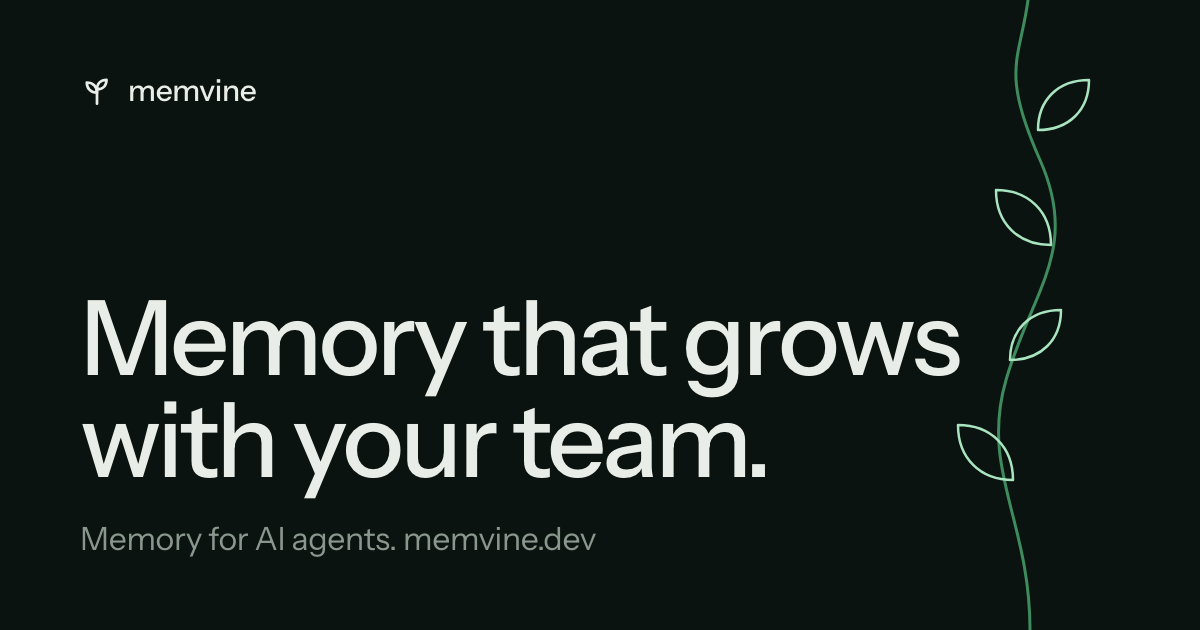
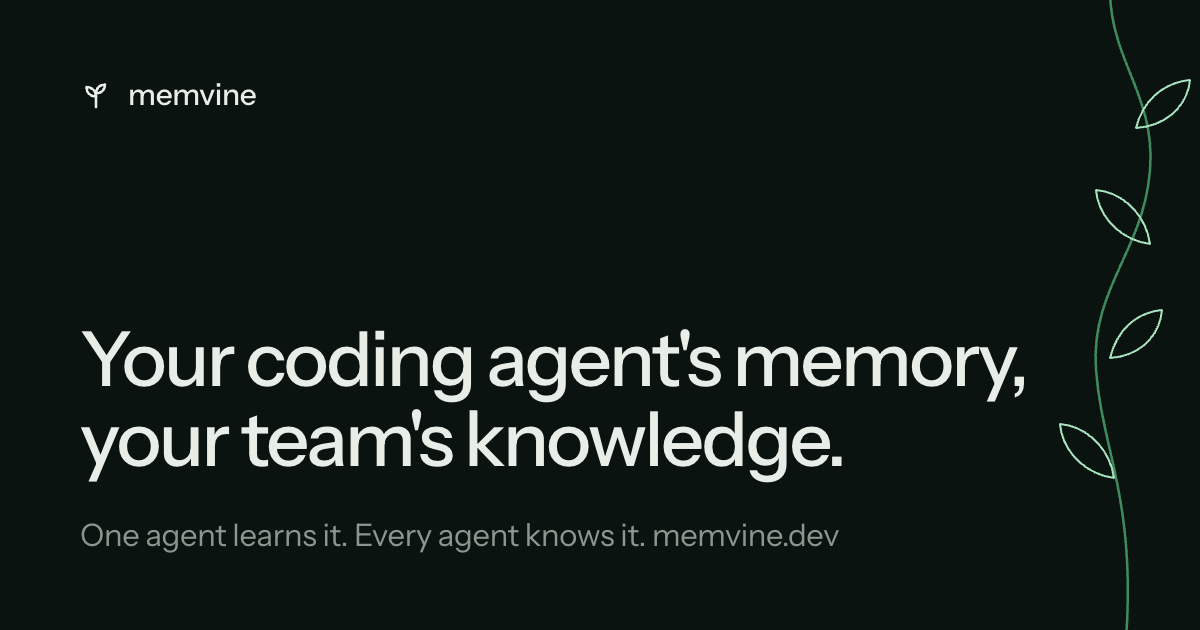
Site: the headline, title and link preview carry the new tagline
Your coding agent's memory, your team's knowledge. og.png is redrawn from site/og.html (not served).

diff --git a/site/index.html b/site/index.html
@@ -3,18 +3,18 @@
 <head>
   <meta charset="utf-8">
   <meta name="viewport" content="width=device-width, initial-scale=1">
-  <title>Memvine: open-source memory for AI agents (Claude Code, Codex, MCP)</title>
-  <meta name="description" content="Memvine is shared memory for a team's coding agents. Teach one agent a rule once, and every teammate's agent knows it the next day.">
+  <title>Memvine: your coding agent's memory, your team's knowledge</title>
+  <meta name="description" content="Your coding agent's memory, your team's knowledge. Open-source shared memory for Claude Code, Codex and any MCP client: one agent learns it, every agent knows it.">
   <link rel="canonical" href="https://www.memvine.dev/">
   <meta property="og:site_name" content="Memvine">
-  <meta property="og:title" content="Memvine: memory for AI agents">
-  <meta property="og:description" content="Shared memory for a team's coding agents. Teach one agent once, and every agent on your team remembers.">
+  <meta property="og:title" content="Memvine: your coding agent's memory, your team's knowledge">
+  <meta property="og:description" content="One agent learns it. Every agent knows it. Open-source shared memory for a team's coding agents.">
   <meta property="og:url" content="https://www.memvine.dev/">
   <meta property="og:type" content="website">
   <meta property="og:image" content="https://www.memvine.dev/og.png">
   <meta property="og:image:width" content="1200">
   <meta property="og:image:height" content="630">
-  <meta property="og:image:alt" content="Memvine. Memory that grows with your team.">
+  <meta property="og:image:alt" content="Memvine. Your coding agent's memory, your team's knowledge.">
   <meta name="twitter:card" content="summary_large_image">
   <script type="application/ld+json">
   {
@@ -52,7 +52,7 @@
   <link rel="preconnect" href="https://fonts.googleapis.com">
   <link rel="preconnect" href="https://fonts.gstatic.com" crossorigin>
   <link href="https://fonts.googleapis.com/css2?family=Instrument+Sans:wght@400;500;600&display=swap" rel="stylesheet">
-  <link rel="stylesheet" href="styles.css?v=7">
+  <link rel="stylesheet" href="styles.css?v=8">
 </head>
 <body>
   <canvas id="vine" aria-hidden="true"></canvas>
@@ -76,10 +76,10 @@
   <main>
     <section class="hero">
       <h1>
-        <span class="line"><span>Memory that grows</span></span>
-        <span class="line"><span>with your team.</span></span>
+        <span class="line"><span>Your coding agent's memory,</span></span>
+        <span class="line"><span>your team's knowledge.</span></span>
       </h1>
-      <p class="lede">Open-source, shared memory for your team's coding agents, across Claude Code, Codex and any MCP client.</p>
+      <p class="lede">One agent learns it. Every agent knows it. Open source, for Claude Code, Codex and any MCP client.</p>
       <div class="actions">
         <a class="button primary" href="#connect">Connect an agent</a>
         <a class="button" href="https://app.memvine.dev">Open the console</a>

diff --git a/site/og.html b/site/og.html
@@ -1,0 +1,42 @@
+<!doctype html>
+<!-- The source of og.png, the picture a link to memvine.dev shows. Not served. To remake it:
+     "/Applications/Google Chrome.app/Contents/MacOS/Google Chrome" --headless=new --hide-scrollbars \
+       --window-size=1200,630 --virtual-time-budget=4000 --screenshot=og.png og.html -->
+<html lang="en">
+<head>
+  <meta charset="utf-8">
+  <title>Memvine link preview</title>
+  <link rel="preconnect" href="https://fonts.googleapis.com">
+  <link rel="preconnect" href="https://fonts.gstatic.com" crossorigin>
+  <link href="https://fonts.googleapis.com/css2?family=Instrument+Sans:wght@400;500;600&display=swap" rel="stylesheet">
+  <style>
+    html, body { margin: 0; width: 1200px; height: 630px; overflow: hidden; background: #0b1310; }
+    body { position: relative; font-family: "Instrument Sans", system-ui, sans-serif; color: #e8ede7; -webkit-font-smoothing: antialiased; }
+    .wordmark { position: absolute; left: 80px; top: 76px; display: flex; align-items: center; gap: 16px; font-size: 30px; font-weight: 500; letter-spacing: -0.01em; }
+    h1 { position: absolute; left: 80px; bottom: 150px; margin: 0; font-size: 76px; font-weight: 500; line-height: 1.06; letter-spacing: -0.035em; white-space: nowrap; }
+    p { position: absolute; left: 80px; bottom: 76px; margin: 0; font-size: 31px; letter-spacing: -0.01em; color: #8a978e; }
+    .vine { position: absolute; right: 0; top: 0; }
+  </style>
+</head>
+<body>
+  <div class="wordmark">
+    <svg viewBox="0 0 20 20" width="32" height="32" aria-hidden="true" fill="none" stroke="currentColor" stroke-width="1.6" stroke-linecap="round" stroke-linejoin="round">
+      <path d="M10 17.5V9"/>
+      <path d="M10 11C10 7.4 7.6 5 4 5c0 3.6 2.4 6 6 6Z"/>
+      <path d="M10 9c0-3.3 2.2-5.5 5.6-5.5 0 3.3-2.2 5.5-5.6 5.5Z"/>
+    </svg>
+    <span>memvine</span>
+  </div>
+  <h1>Your coding agent's memory,<br>your team's knowledge.</h1>
+  <p>One agent learns it. Every agent knows it. memvine.dev</p>
+  <svg class="vine" width="240" height="630" viewBox="0 0 240 630" aria-hidden="true" fill="none" stroke-linecap="round" stroke-linejoin="round">
+    <path d="M150 -10C150 60 196 96 190 170C184 250 130 290 136 370C142 450 176 500 166 640" stroke="#3e8c5e" stroke-width="2.5"/>
+    <g stroke="#a8e4bf" stroke-width="2">
+      <path d="M176 128C184 96 208 82 230 80C228 104 208 126 176 128Z"/>
+      <path d="M190 244C160 240 138 216 136 190C162 192 186 214 190 244Z"/>
+      <path d="M150 358C158 326 180 312 202 310C200 334 182 356 150 358Z"/>
+      <path d="M154 478C124 474 102 450 100 424C126 426 150 448 154 478Z"/>
+    </g>
+  </svg>
+</body>
+</html>

diff --git a/site/styles.css b/site/styles.css
@@ -91,13 +91,13 @@ a:focus-visible, .button:focus-visible {
   padding: 120px var(--gutter) 80px;
 }
 
+/* two lines, each a clause of the tagline; sized so the longer one stays on its line */
 .hero h1 {
   margin: 0;
-  font-size: clamp(46px, 7.2vw, 112px);
+  font-size: clamp(38px, 5.6vw, 88px);
   font-weight: 500;
-  line-height: 0.98;
+  line-height: 1.02;
   letter-spacing: -0.035em;
-  max-width: 16ch;
 }
 
 .hero h1 .line { display: block; overflow: hidden; padding-bottom: 0.06em; margin-bottom: -0.06em; }
@@ -110,7 +110,7 @@ a:focus-visible, .button:focus-visible {
 
 .lede {
   margin: 36px 0 0;
-  max-width: 36ch;
+  max-width: 40ch;
   font-size: clamp(19px, 1.55vw, 23px);
   line-height: 1.45;
   letter-spacing: -0.01em;
@@ -483,6 +483,8 @@ button.button { font: inherit; font-size: 16.5px; font-weight: 500; letter-spaci
   .top { padding: 22px var(--gutter); }
   .top nav { display: none; }
   .hero { padding-top: 110px; }
+  .hero h1, .hero .lede { max-width: calc(100% - 34px); } /* clear of the vine down the right edge */
+  .hero h1 { font-size: 35px; line-height: 1.06; }
   .hero h1 .line { display: inline; overflow: visible; padding: 0; margin: 0; }
   .hero h1 .line > span { display: inline; transform: none; opacity: 0; animation: appear 900ms ease 120ms forwards; }
   .grows { gap: 16vh; }

diff --git a/site/how-it-works.html b/site/how-it-works.html
@@ -14,14 +14,14 @@
   <meta property="og:image" content="https://www.memvine.dev/og.png">
   <meta property="og:image:width" content="1200">
   <meta property="og:image:height" content="630">
-  <meta property="og:image:alt" content="Memvine. Memory that grows with your team.">
+  <meta property="og:image:alt" content="Memvine. Your coding agent's memory, your team's knowledge.">
   <meta name="twitter:card" content="summary_large_image">
   <meta name="theme-color" content="#0b1310">
   <link rel="icon" href="icon.svg" type="image/svg+xml">
   <link rel="preconnect" href="https://fonts.googleapis.com">
   <link rel="preconnect" href="https://fonts.gstatic.com" crossorigin>
   <link href="https://fonts.googleapis.com/css2?family=Instrument+Sans:wght@400;500;600&display=swap" rel="stylesheet">
-  <link rel="stylesheet" href="styles.css?v=7">
+  <link rel="stylesheet" href="styles.css?v=8">
 </head>
 <body>
   <header class="top">

diff --git a/site/privacy.html b/site/privacy.html
@@ -11,7 +11,7 @@
   <link rel="preconnect" href="https://fonts.googleapis.com">
   <link rel="preconnect" href="https://fonts.gstatic.com" crossorigin>
   <link href="https://fonts.googleapis.com/css2?family=Instrument+Sans:wght@400;500;600&display=swap" rel="stylesheet">
-  <link rel="stylesheet" href="/styles.css?v=7">
+  <link rel="stylesheet" href="/styles.css?v=8">
 </head>
 <body>
   <header class="top">

diff --git a/site/terms.html b/site/terms.html
@@ -11,7 +11,7 @@
   <link rel="preconnect" href="https://fonts.googleapis.com">
   <link rel="preconnect" href="https://fonts.gstatic.com" crossorigin>
   <link href="https://fonts.googleapis.com/css2?family=Instrument+Sans:wght@400;500;600&display=swap" rel="stylesheet">
-  <link rel="stylesheet" href="/styles.css?v=7">
+  <link rel="stylesheet" href="/styles.css?v=8">
 </head>
 <body>
   <header class="top">

diff --git a/site/README.md b/site/README.md
@@ -8,7 +8,7 @@ screenshots `how-kept.png` and `how-rechecked.png`, made by `benchmark/how-it-wo
 the repository's README and docs show, and the site does not serve it); and `terms.html` and
 `privacy.html` (served at `/terms` and `/privacy`; drafts until a lawyer has reviewed them). For search engines and link
 previews: `robots.txt`, `sitemap.xml` (add each new page to it, and to the Dockerfile's `COPY`),
-`og.png` (1200×630), and a canonical link on every page that names its `www.memvine.dev` address. Open `index.html` in a browser, or
+`og.png` (1200×630; its source is `og.html`, which is not served and says how to render it), and a canonical link on every page that names its `www.memvine.dev` address. Open `index.html` in a browser, or
 `python3 -m http.server 8787` here and visit `http://127.0.0.1:8787/`.
 
 The Dockerfile serves the files with nginx on the `PORT` its host sets (8080 by default).
